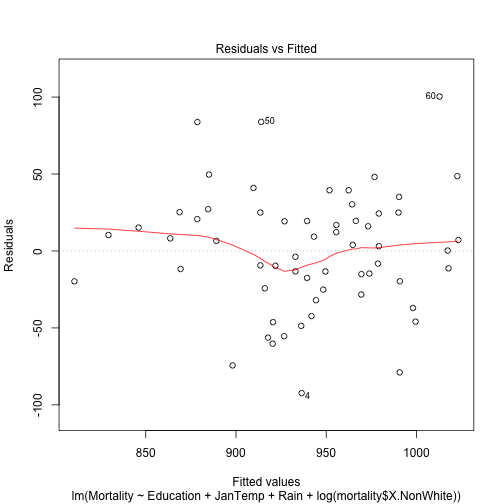
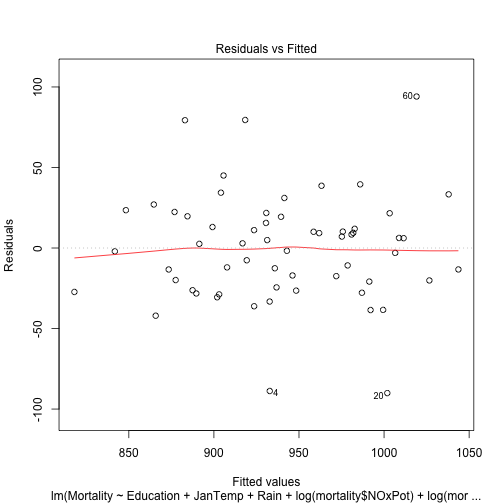
Model correction

diff --git a/mortality.md b/mortality.md
@@ -133,33 +133,34 @@ Procedure - Stepwise Backward Elimination Regression
 
 ```r
 mortality <- read.csv('/Users/ag/Desktop/mortality.csv')
-fit <- lm(Mortality ~ Education+JanTemp+Rain+log(mortality$X.NonWhite), data=mortality)
+fit <- lm(Mortality ~ Education+JanTemp+Rain+log(mortality$NOxPot)+log(mortality$X.NonWhite), data=mortality)
 summary(fit)
 ```
 
 ```
 
 Call:
-lm(formula = Mortality ~ Education + JanTemp + Rain + log(mortality$X.NonWhite), 
-    data = mortality)
+lm(formula = Mortality ~ Education + JanTemp + Rain + log(mortality$NOxPot) + 
+    log(mortality$X.NonWhite), data = mortality)
 
 Residuals:
     Min      1Q  Median      3Q     Max 
--92.338 -20.866   3.524  24.513 100.360 
+-90.077 -21.753   2.732  19.458  94.061 
 
 Coefficients:
                            Estimate Std. Error t value Pr(>|t|)    
-(Intercept)               1122.5996    89.9133  12.485  < 2e-16 ***
-Education                  -24.1866     7.1961  -3.361  0.00142 ** 
-JanTemp                     -1.6368     0.5838  -2.804  0.00696 ** 
-Rain                         1.1430     0.5236   2.183  0.03332 *  
-log(mortality$X.NonWhite)   43.9467     6.8117   6.452 2.97e-08 ***
+(Intercept)               1000.8423    82.9967  12.059  < 2e-16 ***
+Education                  -18.5874     6.3836  -2.912 0.005215 ** 
+JanTemp                     -1.8298     0.5091  -3.594 0.000705 ***
+Rain                         2.1029     0.5058   4.158 0.000116 ***
+log(mortality$NOxPot)       18.6029     4.2833   4.343 6.23e-05 ***
+log(mortality$X.NonWhite)   38.0362     6.0726   6.264 6.43e-08 ***
 ---
 Signif. codes:  0 '***' 0.001 '**' 0.01 '*' 0.05 '.' 0.1 ' ' 1
 
-Residual standard error: 40.38 on 55 degrees of freedom
-Multiple R-squared:  0.6074,	Adjusted R-squared:  0.5788 
-F-statistic: 21.27 on 4 and 55 DF,  p-value: 1.208e-10
+Residual standard error: 35.08 on 54 degrees of freedom
+Multiple R-squared:  0.709,	Adjusted R-squared:  0.6821 
+F-statistic: 26.32 on 5 and 54 DF,  p-value: 2.305e-13
 ```
 
 ```r
